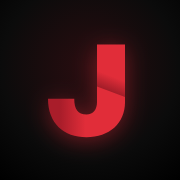
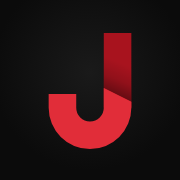
feat(brand): refine the J mark
One ribbon width all the way round (a true semicircle bowl instead of a
lopsided hook), a flat bright front ribbon folding over a darker stem, and
a soft cast shadow in place of the hard-edged gradients. PWA icons and the
plugin image are re-rendered from it, without the glow.

Changed region(s): [[0.2222, 0.1667, 0.75, 0.8333]]

diff --git a/client/src/components/LumenMark.test.tsx b/client/src/components/LumenMark.test.tsx
@@ -9,7 +9,7 @@ describe('LumenMark', () => {
     const mark = container.querySelector('.lmn-mark.x')!;
     expect(mark.getAttribute('aria-hidden')).toBe('true');
     expect(mark.querySelector('svg')?.getAttribute('viewBox')).toBe('0 0 64 64');
-    expect(mark.querySelector('#lmnJStemFold')).not.toBeNull();
-    expect(MARK_SVG).toContain('lmnJStemFold');
+    expect(mark.querySelector('#lmnJShade')).not.toBeNull();
+    expect(MARK_SVG).toContain('lmnJShade');
   });
 });
